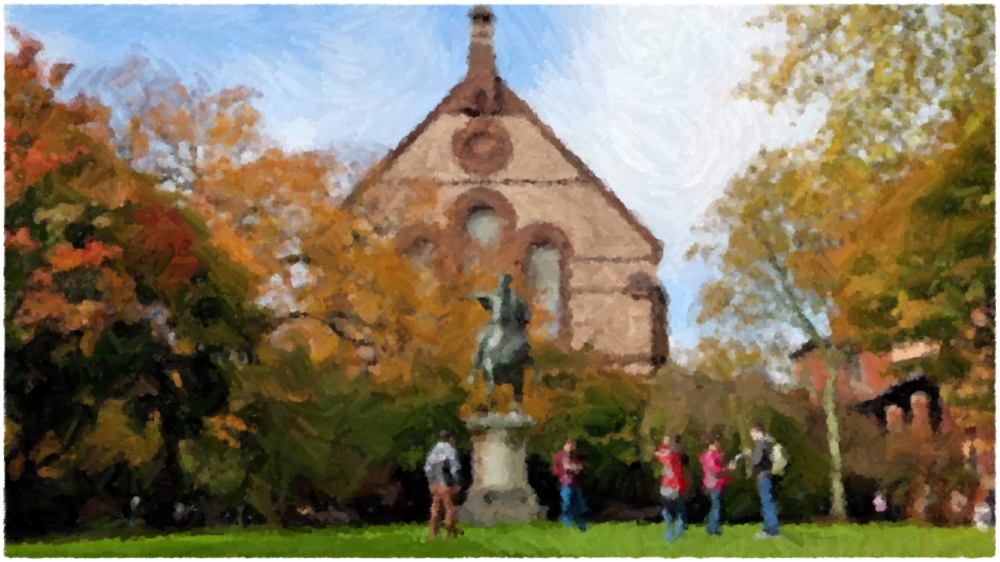
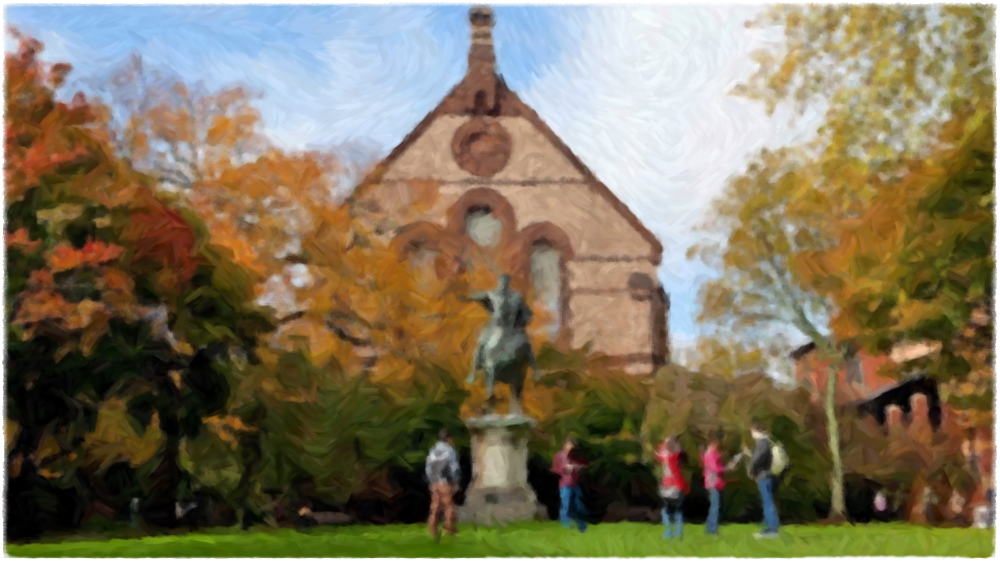
Revert "switch to rectangle masks"
This reverts commit 32f6dd0220d9a6933386185a99eb93ca00586146.

diff --git a/code/run.py b/code/run.py
@@ -10,47 +10,40 @@ def paint_image(img, mask, options):
     out = np.full(img.shape, 255)
     diameter = 2 * radius + 1
 
-    stroke_centers = stroke_list(img.shape, radius)
+    stroke_centers = stroke_list(img.shape, diameter)
 
-    step_size, strokes = generate_stroke_sizes(mask, length, radius)
+    if mask is None:
+        mask = np.ones((diameter, diameter))
+    else:
+        mask = transform.resize(mask, (diameter, diameter))
+
+    step_size, strokes = generate_stroke_sizes(mask, length, diameter)
 
     return paint(
         img, out, stroke_centers, strokes, step_size, length, diameter, options
     )
-
 
 # currently assuming points are in shape (n, 2)
 def get_spaced_centers(good_points, original_points, img_shape, spacing_radius):
     points_to_include = np.ones((original_points.shape[0] + good_points.shape[0], 2))
     all_points = np.concatenate(original_points, good_points)
 
-    plot = np.zeros(img_shape)  # make sure this is 1-D
+    plot = np.zeros(img_shape) # make sure this is 1-D
     plot[good_points[1], good_points[0]] = 1
 
     density_radius = spacing_radius // 2
 
     # remove points from original_points:
     for i in range(original_points.shape[0]):
-        # for i in range(points_to_include.shape[0]):
+    #for i in range(points_to_include.shape[0]):
         if i >= original_points.shape[0]:
             spacing_radius = density_radius
 
         point = (original_points[i, 1], original_points[i, 0])
-        y_window_bounds = (
-            max(point[0] - spacing_radius, 0),
-            min(point[0] + spacing_radius, plot.shape[0]),
-        )
-        x_window_bounds = (
-            max(point[1] - spacing_radius, 0),
-            min(point[1] + spacing_radius, plot.shape[1]),
-        )
+        y_window_bounds = (max(point[0] - spacing_radius, 0), min(point[0] + spacing_radius, plot.shape[0]))
+        x_window_bounds = (max(point[1] - spacing_radius, 0), min(point[1] + spacing_radius, plot.shape[1]))
 
-        points_in_neighborhood = np.sum(
-            plot[
-                y_window_bounds[0] : y_window_bounds[1],
-                x_window_bounds[0] : x_window_bounds[1],
-            ]
-        )
+        points_in_neighborhood = np.sum(plot[y_window_bounds[0] : y_window_bounds[1], x_window_bounds[0] : x_window_bounds[1]])
 
         # start with assumption that we keep all points
         if points_in_neighborhood > 0:
@@ -66,7 +59,7 @@ def get_spaced_centers(good_points, original_points, img_shape, spacing_radius):
             points_to_include[original_points.shape[0] + i, :] = 0
         else:
             point_dict[good_points[i]] = 1
-
+    
     return all_points[points_to_include == 1]
 
 
@@ -108,6 +101,11 @@ def paint_video(vid, out_path, mask, options):
     p0 = stroke_list(prev_frame.shape, diameter).astype(np.float32)
     print(f"default shape: {p0.shape}, default dtype: {p0.dtype}")
     print(f"max x: {np.max(p0[:, 0])}, max y: {np.max(p0[:, 1])}")
+
+    if mask is None:
+        mask = np.ones((diameter, diameter))
+    else:
+        mask = transform.resize(mask, (diameter, diameter))
 
     step_size, strokes = generate_stroke_sizes(mask, length, diameter)
 

diff --git a/code/paint.py b/code/paint.py
@@ -3,15 +3,13 @@ import numpy as np
 from scipy import interpolate
 from skimage import transform
 from tqdm import tqdm
-import matplotlib.pyplot as plt
 
 
-def stroke_list(shape, radius):
+def stroke_list(shape, diameter):
     h, w, _ = shape
-    diameter = 2 * radius + 1
 
-    x_range = np.linspace(diameter, w - diameter - 1, (w - 2 * diameter - 1) // radius)
-    y_range = np.linspace(diameter, h - diameter - 1, (h - 2 * diameter - 1) // radius)
+    x_range = np.linspace(diameter, w - diameter - 1, (w - 2 * diameter - 1) // 2)
+    y_range = np.linspace(diameter, h - diameter - 1, (h - 2 * diameter - 1) // 2)
 
     x_grid, y_grid = np.meshgrid(x_range, y_range)
 
@@ -21,13 +19,9 @@ def stroke_list(shape, radius):
     return coordinates
 
 
-def generate_stroke_sizes(mask, length, radius):
+def generate_stroke_sizes(mask, length, diameter):
     strokes = {}
     step_size = 1
-    diameter = 2 * radius + 1
-
-    if mask is not None:
-        resized = transform.rescale(mask, diameter / mask.shape[0])
 
     if length > 20:
         step_size = length / 20
@@ -35,13 +29,14 @@ def generate_stroke_sizes(mask, length, radius):
     size = step_size
     while size <= length:
         stroke_len = int(size)
-        if mask is not None:
-            strokes[stroke_len] = np.hstack(
-                (resized[:, : radius + stroke_len], resized[:, -radius:])
-            )
-        else:
-            strokes[stroke_len] = np.ones((diameter, stroke_len + diameter))
+        stroke_mask = np.zeros((diameter, stroke_len + diameter))
+        addition = mask.copy()
+        if size == step_size:
+            addition[addition < 0.2] = 0.2
+        for i in range(stroke_len):
+            stroke_mask[0:diameter, i : i + diameter] += addition
 
+        strokes[stroke_len] = np.clip(stroke_mask, 0, 1)
         size += step_size
 
     return step_size, strokes
